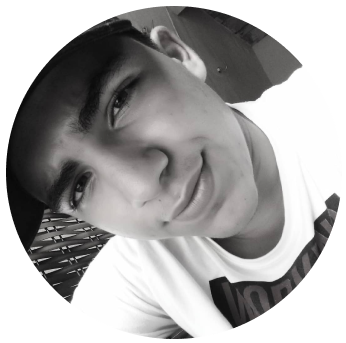
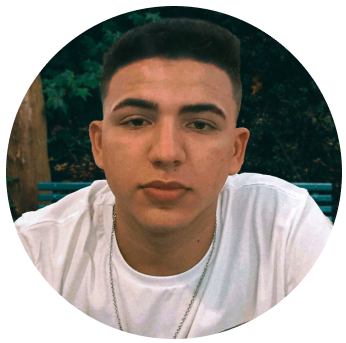
add link portifolio and update photo profile

diff --git a/index.html b/index.html
@@ -16,7 +16,7 @@
   <div id="container">
 
     <div class="profile">
-      <img src="./assets/Avatar.png" alt="Avatar">
+      <img src="./assets/avatar.png" alt="Avatar">
       <p>@matheus_snt01</p>
     </div>
 
@@ -33,7 +33,7 @@
         </li>
 
         <li class="item-list">
-          <a href="" target="_blank">Meu portifólio</a>
+          <a href="https://matheus-meu-portifolio.vercel.app/" target="_blank">Meu portifólio</a>
         </li>
 
         <li class="item-list">
